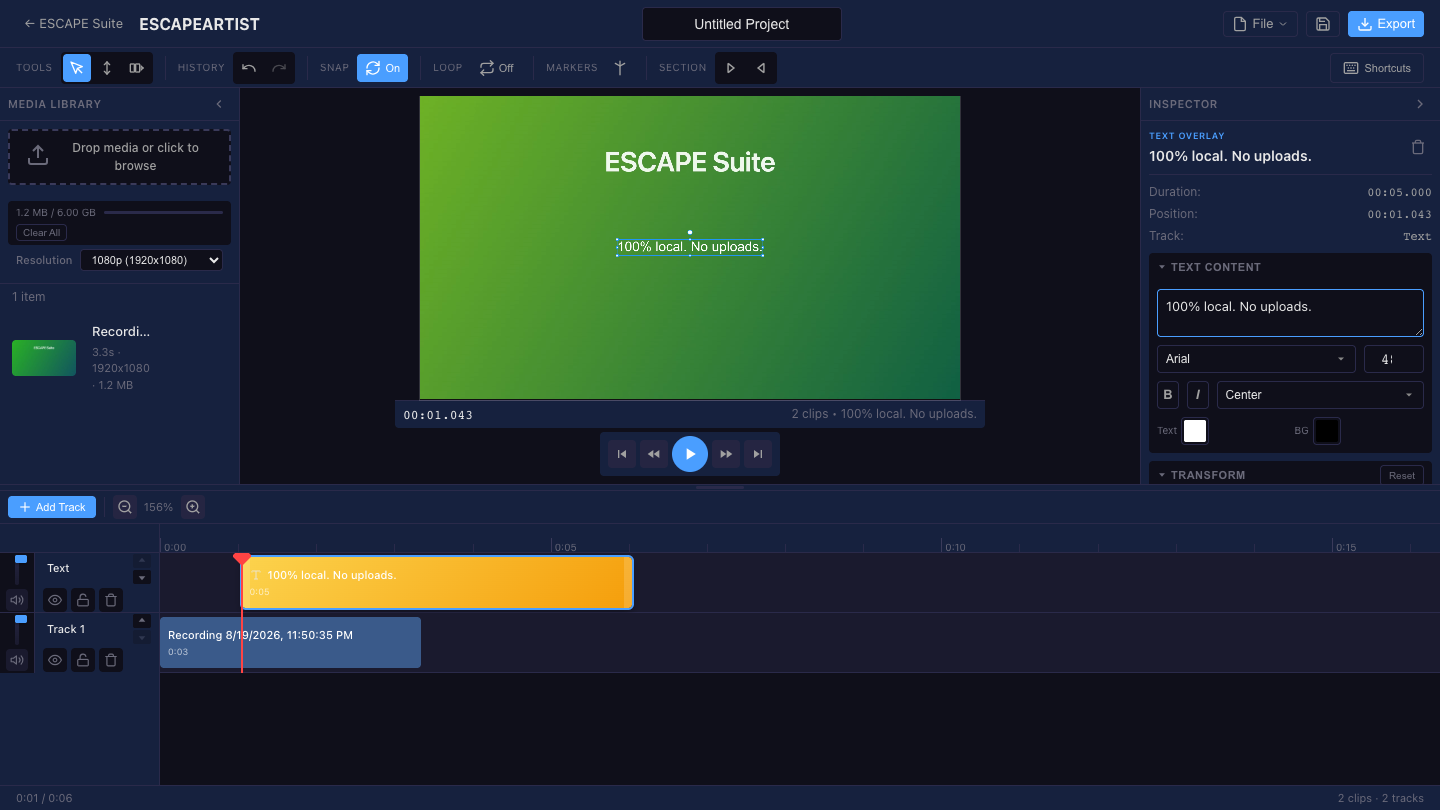
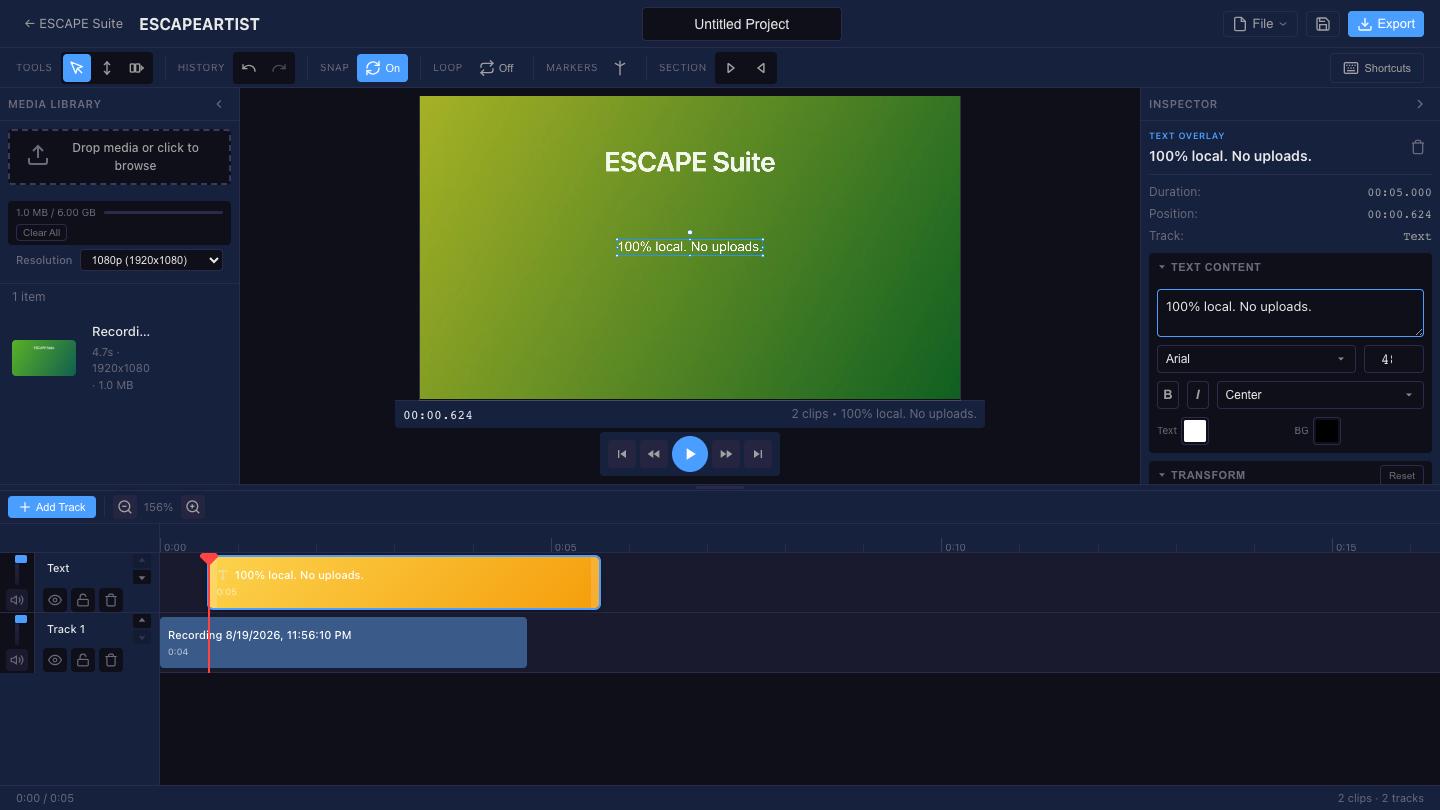
docs: mid-recording CRAFT screenshot, canonical owner casing in badges
The ready-to-record shot was mostly an empty preview panel. Capture it at the
recording beat instead, so the screenshot shows what the recorder actually does:
live preview, "Recording" indicator, running timer, and mic level meter. The
capture script now takes it mid-flight rather than after the save.

Also normalizes the CI badge URL to the canonical Bonham-Technologies casing,
matching the license and release badges.

Beats retuned to keep the GIF inside the 20s budget after the extra screenshot.

docs/media/demo.gif          900x506, 12 fps, 19.4s, 4.51 MB
docs/media/escapecraft.png   1440x810, 254 KB
docs/media/escapeartist.png  1440x810, 158 KB

diff --git a/README.md b/README.md
@@ -1,6 +1,6 @@
 # ESCAPE Suite
 
-[![CI](https://github.com/bonham-technologies/ESCAPESUITE/actions/workflows/ci.yml/badge.svg)](https://github.com/bonham-technologies/ESCAPESUITE/actions/workflows/ci.yml)
+[![CI](https://github.com/Bonham-Technologies/ESCAPESUITE/actions/workflows/ci.yml/badge.svg)](https://github.com/Bonham-Technologies/ESCAPESUITE/actions/workflows/ci.yml)
 [![License](https://img.shields.io/github/license/Bonham-Technologies/ESCAPESUITE)](LICENSE)
 [![Latest release](https://img.shields.io/github/v/release/Bonham-Technologies/ESCAPESUITE)](https://github.com/Bonham-Technologies/ESCAPESUITE/releases/latest)
 
@@ -26,7 +26,7 @@ Or download the offline build from [Releases](https://github.com/Bonham-Technolo
 
 ### ESCAPECRAFT - Recorder
 
-<img src="docs/media/escapecraft.png" alt="ESCAPECRAFT armed and ready to record, with source toggles and the recordings library" width="820">
+<img src="docs/media/escapecraft.png" alt="ESCAPECRAFT mid-recording: live preview, running timer, and microphone level meter" width="820">
 
 - Screen, window, or tab capture
 - Webcam recording with Picture-in-Picture overlay
